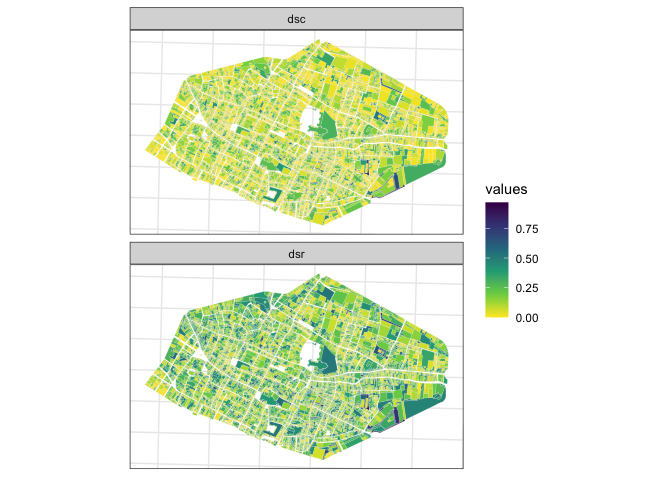
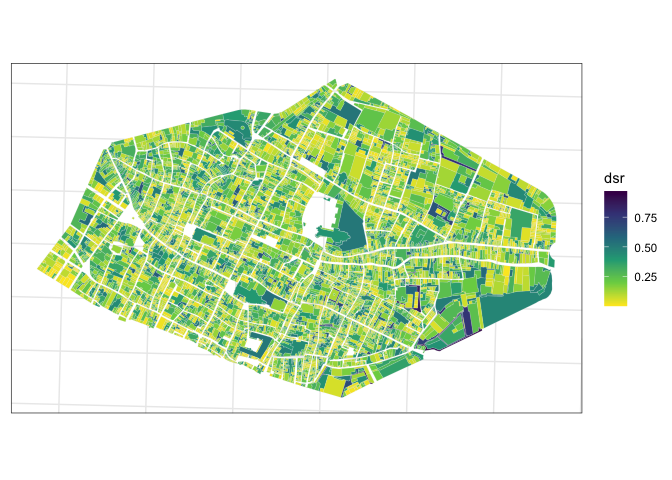
update readme

diff --git a/README.md b/README.md
@@ -5,7 +5,7 @@
 v3](https://img.shields.io/badge/License-GPLv3-blue.svg)](https://www.gnu.org/licenses/gpl-3.0)
 ![R](https://img.shields.io/badge/R-%3E%3D%202.10-blue) ![R CMD
 check](https://img.shields.io/badge/R%20CMD%20check-passing-green)
-![Coverage](https://img.shields.io/badge/coverage-20%25-red)
+![Coverage](https://img.shields.io/badge/coverage-30%25-red)
 
 ## morphalr: Morphological Analysis for Archaeology
 
@@ -59,19 +59,36 @@ orientationsest |>
 
 ## Compute morphological indices
 
-Example with DSR and DSC:
+Example with distance to minimal bounding rectangle (DSR):
 
 ``` r
 rouen_1827 |>
   morphalr_dsr() |>
-  morphalr_dsc() |>
-  pivot_longer(cols = dsr:dsc, names_to = "indices", values_to = "values") |>
   ggplot() +
-  geom_sf(aes(fill = values), color = 'grey90', linewidth = 0.05) +
+  geom_sf(aes(fill = dsr), color = 'grey90', linewidth = 0.05) +
   scale_fill_viridis_c(direction = -1) +
   theme_bw() +
-  theme(axis.ticks = element_blank(), axis.text = element_blank()) +
-  facet_wrap(~indices, ncol = 1)
+  theme(axis.ticks = element_blank(), axis.text = element_blank())
 ```
 
 ![](README_files/figure-gfm/unnamed-chunk-4-1.png)<!-- -->
+
+## Morphological indices implemented
+
+``` r
+library(kableExtra)
+```
+
+    ## 
+    ## Attaching package: 'kableExtra'
+
+    ## The following object is masked from 'package:dplyr':
+    ## 
+    ##     group_rows
+
+``` r
+tibble(indices = c("orientations of segments of polygons or lines", "distance of polygons to their minimal bounding rectangles", "distance of polygons to their convex hull", "Miller circularity index of polygons", "morphological complexity of polygons"), 
+       `function name` = c("morphalr_segment_orientation", "morphalr_dsr", "morphalr_dsc", "morphalr_circularity",
+                           "morphalr_complexity")) |>
+  kable(format = "latex")
+```
